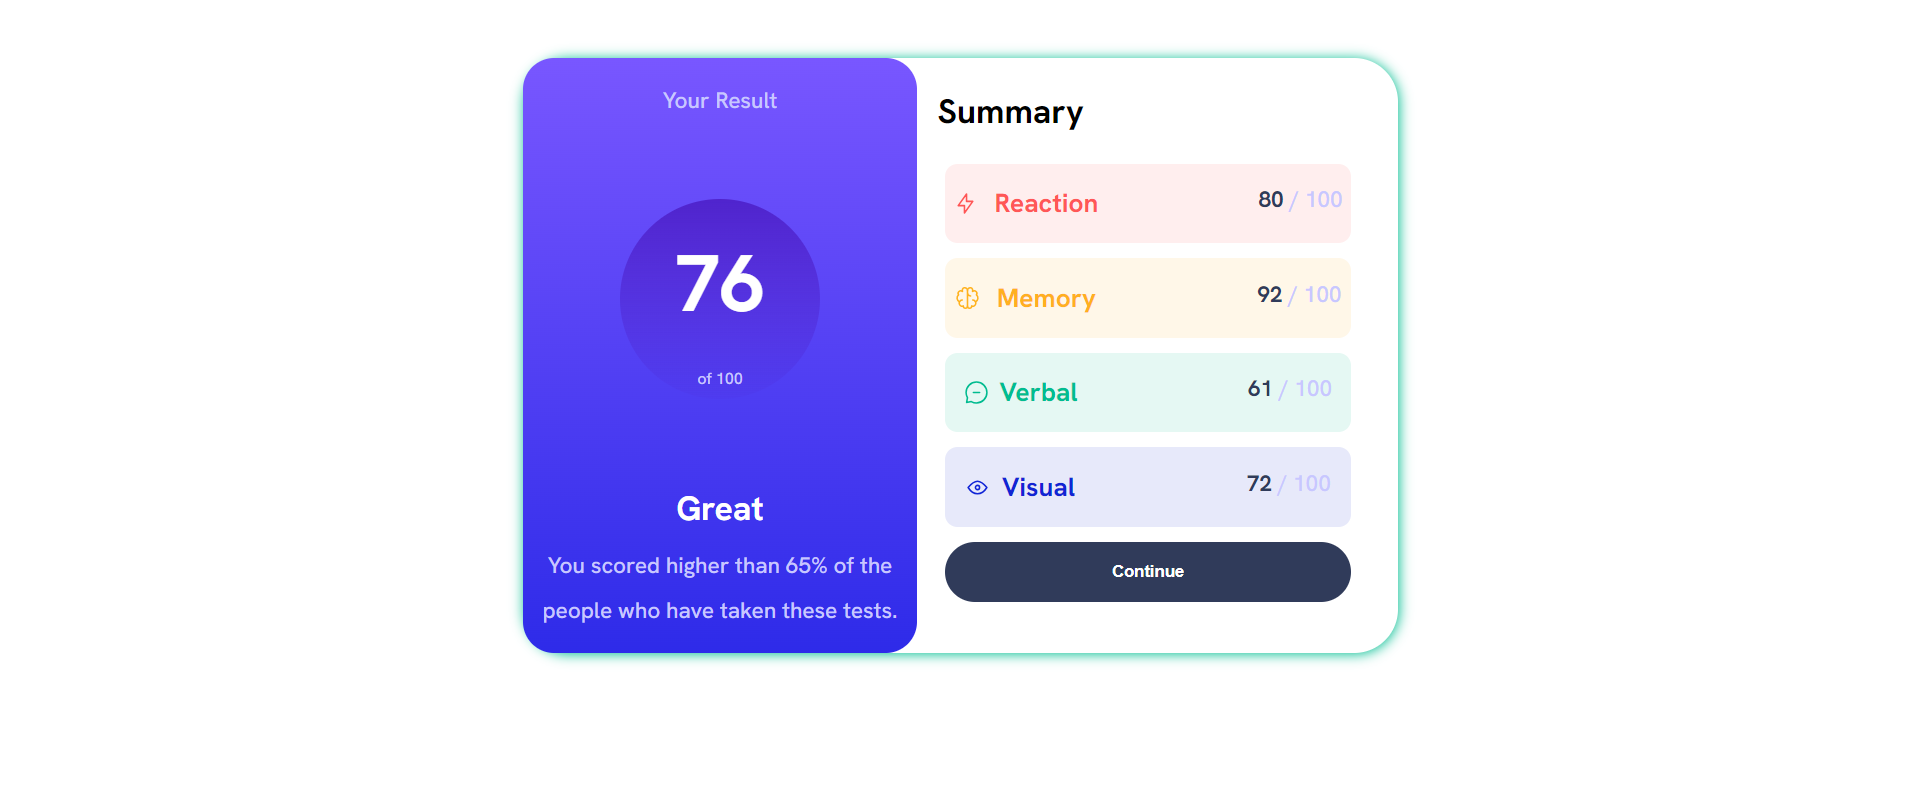
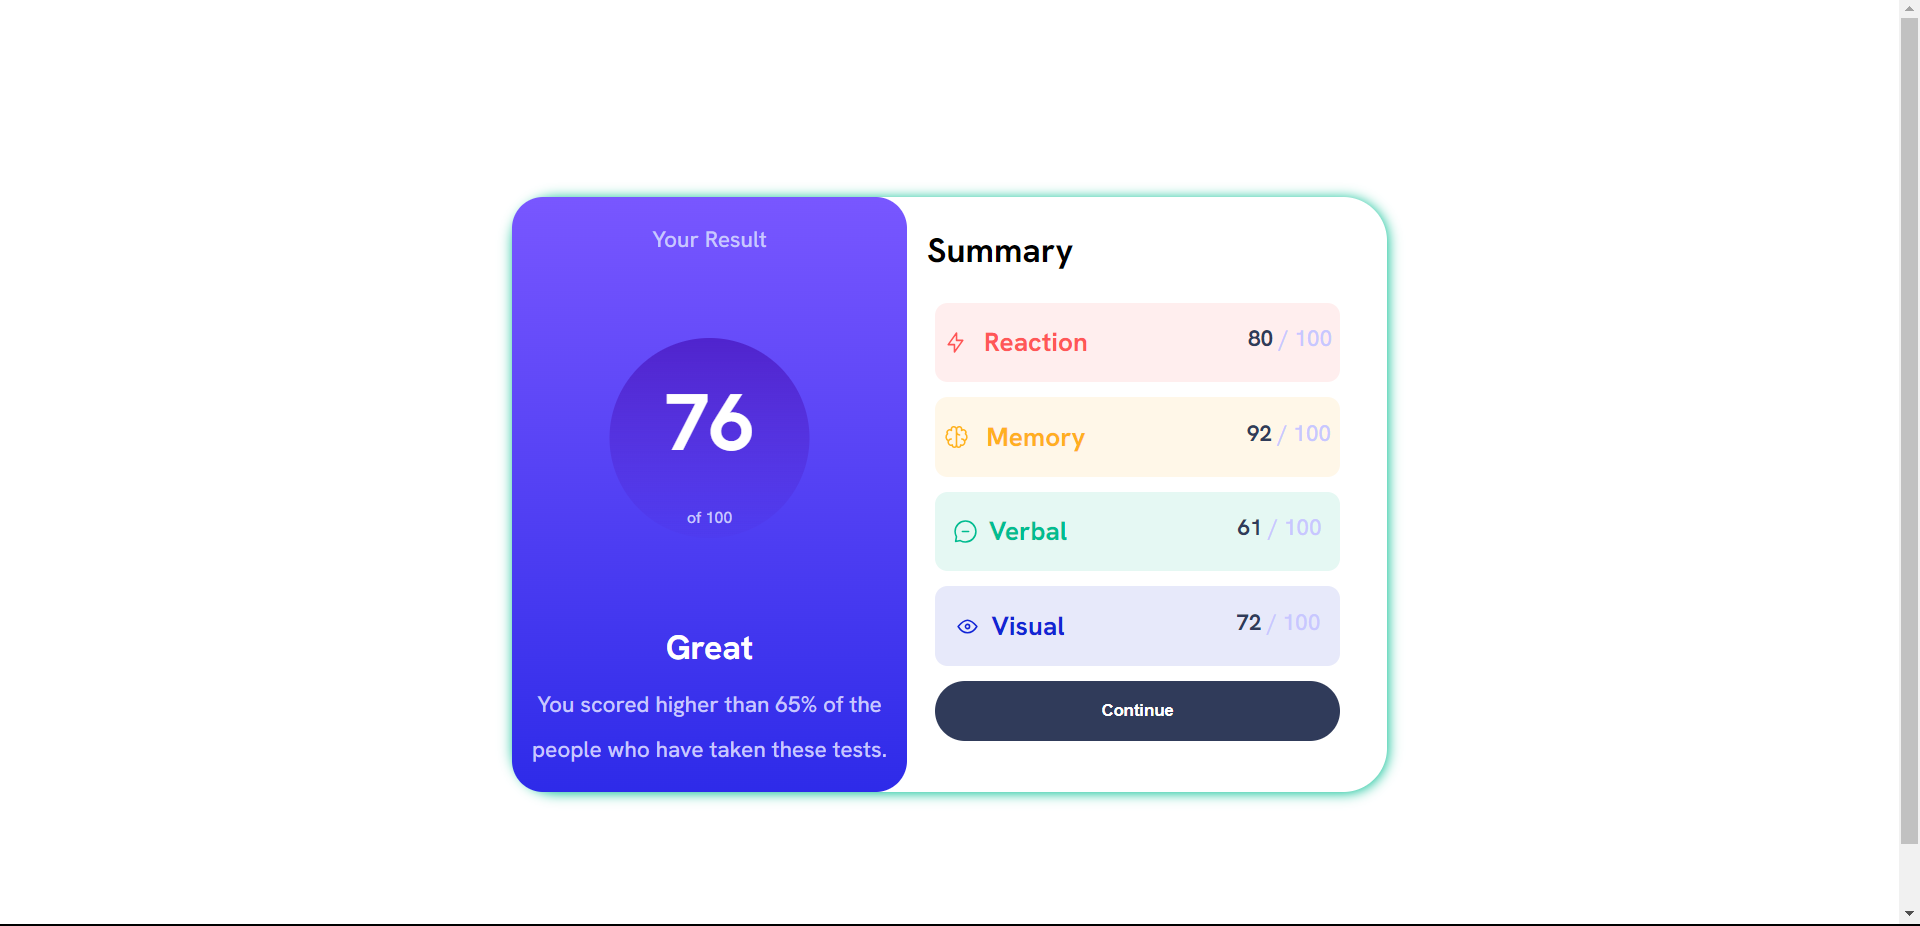
fixed minor bug

diff --git a/index.css b/index.css
@@ -199,6 +199,7 @@ is alot easier */
 
     body {
         line-height: 2;
+
     }
 
     .container {
@@ -208,7 +209,7 @@ is alot easier */
         box-shadow: 1px 1px 10px var(--verbal);
 
         max-width: 700px;
-        margin: 3rem auto;
+        margin: 10rem auto;
         border-radius: 35px;
      }
 
